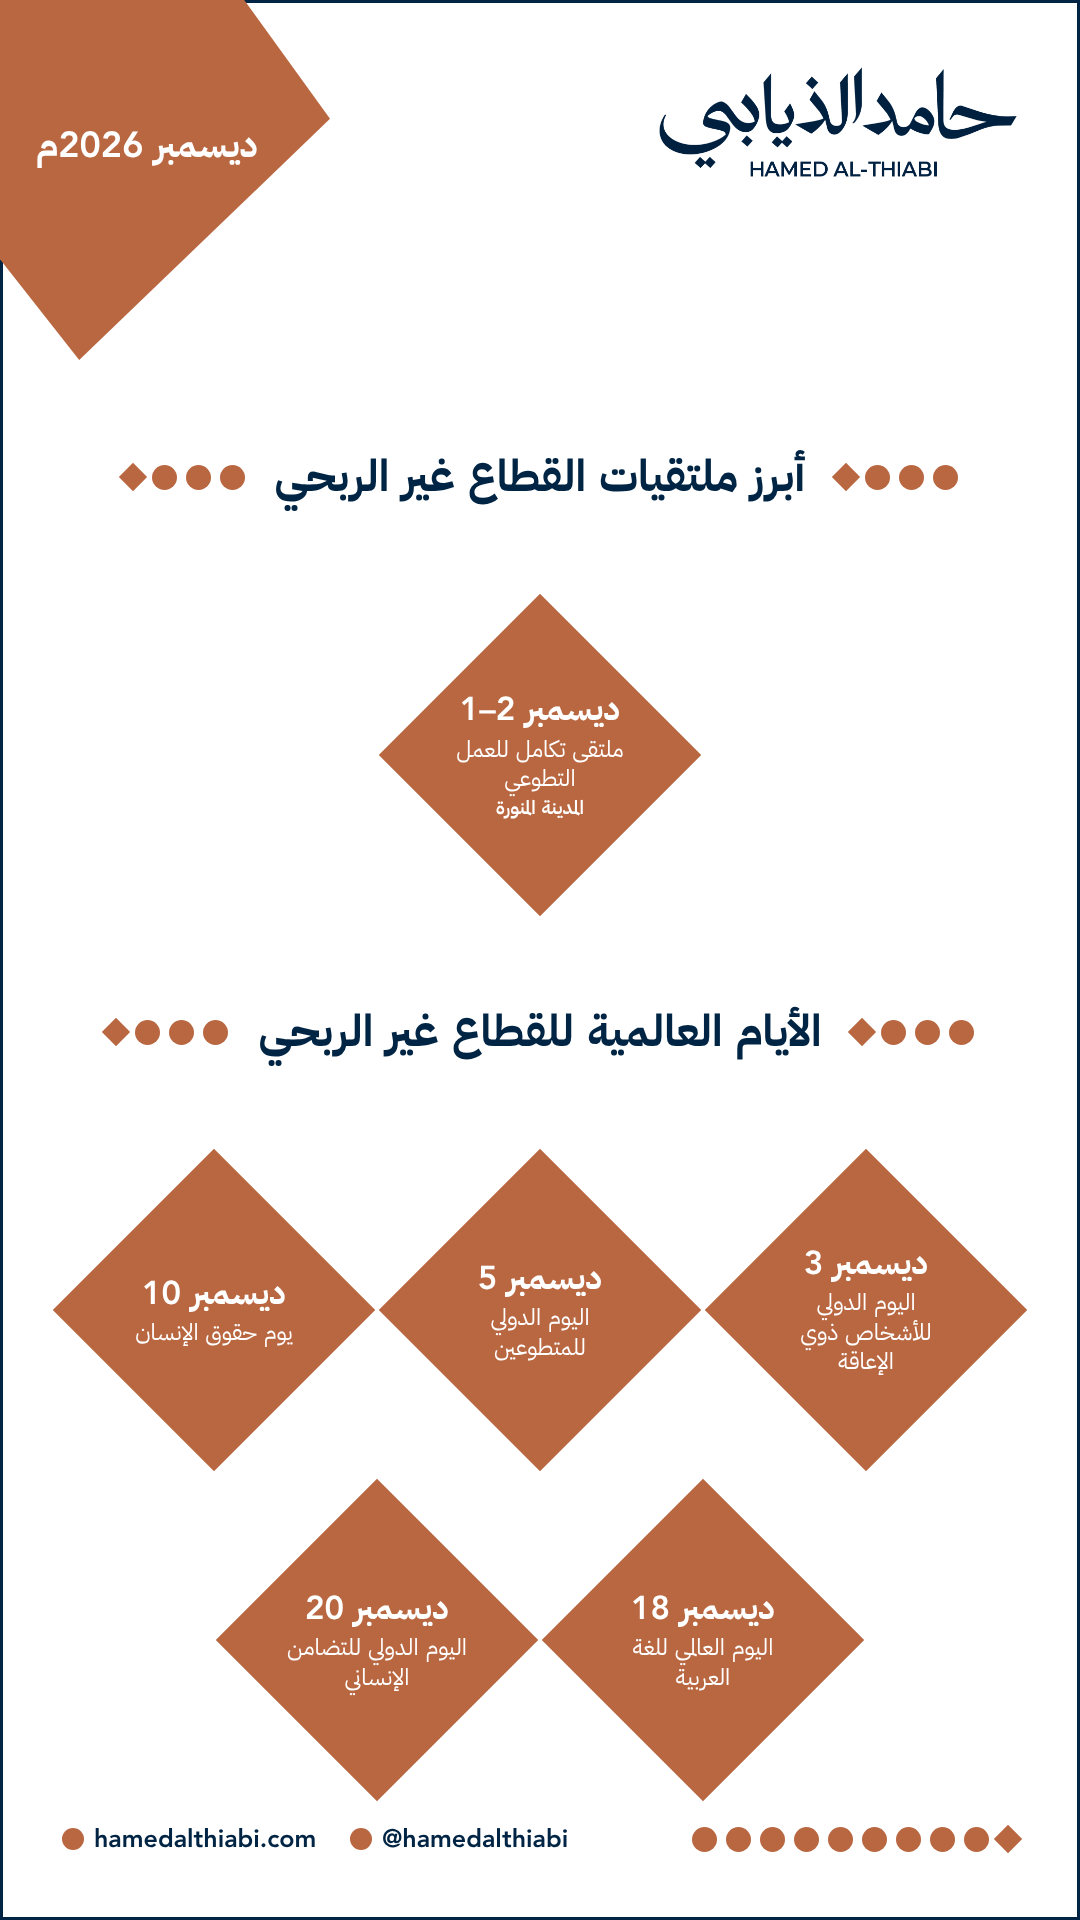
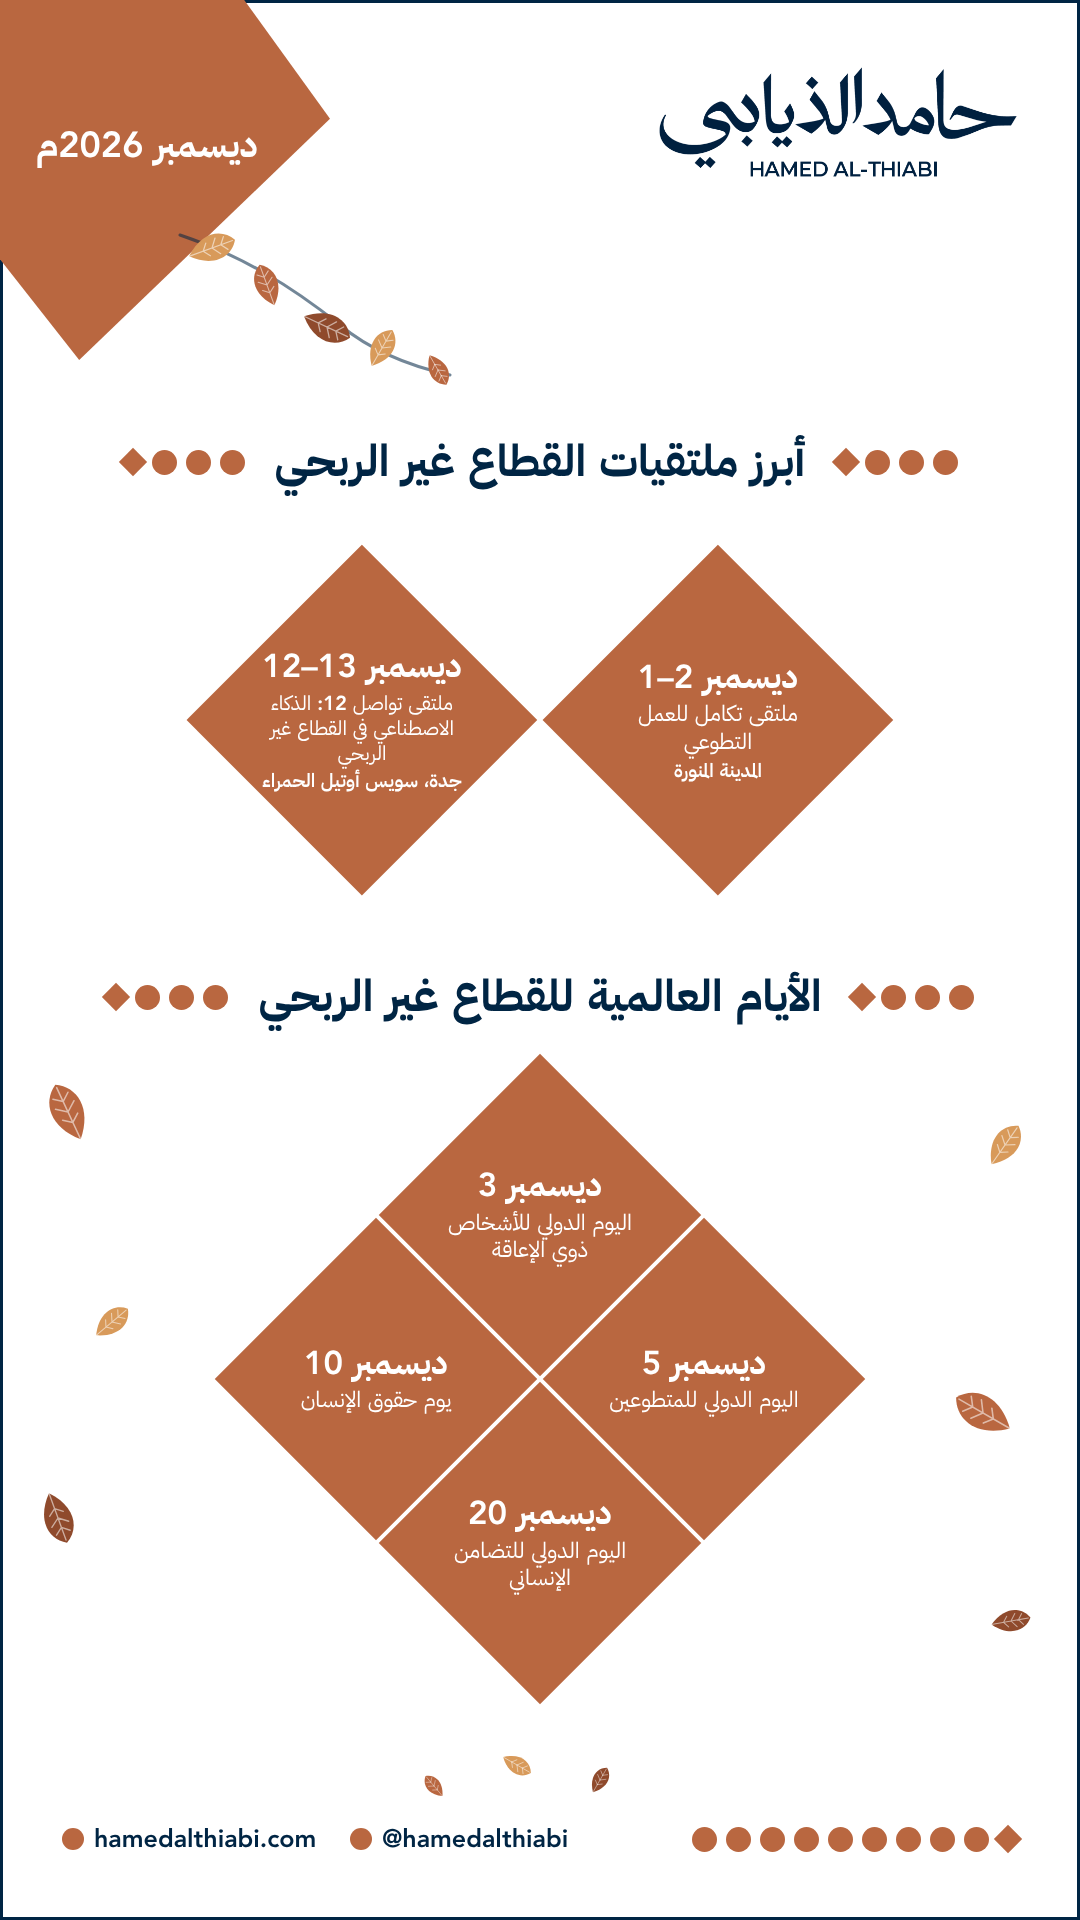
تقويم ديسمبر: ملتقى تواصل ١٢ ولمسة خريفية بطلب تغريد

diff --git a/agent/tools/month_calendar_tpl.py b/agent/tools/month_calendar_tpl.py
@@ -3,7 +3,8 @@
 # data.json: {"month_label": "ديسمبر 2026م",
 #   "events": [{"date": "ديسمبر 1–2", "name": "...", "place": "..."}],  (١–٣)
 #   "days":   [{"date": "ديسمبر 5", "name": "..."}]}                    (حتى ٦)
-# التاريخ بصيغة القالب: الشهر ثم الرقم. لا زخارف إضافية على القالب.
+# "touch": "autumn" لمسة خريفية (غصن وأوراق على الهامش)؛ ٤ أيام تُرتّب خلية معيّنات ١-٢-١.
+# التاريخ بصيغة القالب: الشهر ثم الرقم. 
 import json, sys, os, base64, re
 from playwright.sync_api import sync_playwright
 R = os.path.join(os.path.dirname(os.path.abspath(__file__)), '..', 'brand')
@@ -13,28 +14,62 @@ NAVY, COP = '#002544', '#b96740'
 DS = 322  # قطر المعيّن
 
 
+def leaf(x, y, s, rot, col, op=1):
+    return (f'<svg class="lf" style="left:{x}px;top:{y}px;width:{s}px;height:{s}px;transform:rotate({rot}deg);opacity:{op}" viewBox="0 0 100 100">'
+            f'<path d="M50 3 C80 20 86 60 50 97 C14 60 20 20 50 3Z" fill="{col}"/>'
+            f'<path d="M50 8 L50 97 M50 32 L63 22 M50 32 L37 22 M50 50 L66 38 M50 50 L34 38 M50 68 L63 58 M50 68 L37 58" stroke="#fff" stroke-opacity=".55" stroke-width="2.4" fill="none" stroke-linecap="round"/></svg>')
+
+
+def touches(kind):
+    # لمسة نوفمبر: غصن خريفي يتدلّى من مثلث الشهر، وأوراق تتساقط على الهامشين حتى التذييل
+    if kind != 'autumn': return ''
+    C1, C2, C3 = '#b96740', '#d89a5a', '#8f4a2c'
+    br = ('<svg class="lf" style="left:170px;top:225px;width:300px;height:200px" viewBox="0 0 300 200">'
+          '<path d="M10 10 C70 30 120 60 170 100 C200 125 235 140 280 150" stroke="#002544" stroke-width="3" fill="none" stroke-linecap="round" opacity=".55"/></svg>')
+    L = [(186, 222, 52, 70, C2), (244, 262, 46, -20, C1), (300, 300, 54, 115, C3), (360, 326, 44, 30, C2), (420, 352, 36, 150, C1),
+         (36, 1080, 64, -25, C1), (90, 1300, 44, 50, C2), (30, 1490, 56, 160, C3), (980, 1120, 50, 35, C2), (950, 1380, 66, -60, C1),
+         (990, 1600, 42, 80, C3), (500, 1748, 34, 120, C2), (420, 1772, 28, -40, C1), (585, 1765, 30, 30, C3)]
+    return br + ''.join(leaf(x, y, sz, r, c) for x, y, sz, r, c in L)
+
+
 def dots(n=4):
     return '<span class="dots">' + '<i class="ci"></i>' * (n - 1) + '<i class="dm"></i></span>'
 
 
-def diamond(it, x, y):
+def diamond(it, x, y, ds=None):
+    ds = ds or DS
     pl = f'<div class="pl">{it["place"]}</div>' if it.get('place') else ''
-    return (f'<div class="dw" style="left:{x - DS / 2}px;top:{y - DS / 2}px"><div class="d"></div>'
-            f'<div class="t"><b>{re.sub(r"([0-9][0-9–]*)", r"<span dir=ltr>\1</span>", it["date"])}</b><div class="nm">{it["name"]}</div>{pl}</div></div>')
+    return (f'<div class="dw" style="left:{x - ds / 2}px;top:{y - ds / 2}px;width:{ds}px;height:{ds}px"><div class="d"></div>'
+            f'<div class="t"><b>{re.sub(r"([0-9][0-9–]*)", r"<span dir=ltr>\1</span>", it["date"])}</b><div class="nm" style="font-size:{20 if len(it['name']) > 40 else 22}px">{it["name"]}</div>{pl}</div></div>')
 
 
-def row(items, y):
-    step = DS + 4; n = len(items); x0 = 540 + (n - 1) * step / 2
-    return ''.join(diamond(it, x0 - i * step, y) for i, it in enumerate(items))  # من اليمين
+def row(items, y, ds=None):
+    ds = ds or DS; step = ds + 6; n = len(items); x0 = 540 + (n - 1) * step / 2
+    return ''.join(diamond(it, x0 - i * step, y, ds) for i, it in enumerate(items))  # من اليمين
+
+
+def cluster(items, y0):
+    # معيّنات متداخلة كخلية: ١ ثم ٢ ثم ١ (أو ١ ثم ٢ ثم ٢…)، من اليمين
+    h = DS / 2 + 3; out = ''; y = y0; i = 0; pattern = [1, 2] * 4
+    for k in pattern:
+        if i >= len(items): break
+        grp = items[i:i + k]; i += k
+        xs = [540] if len(grp) == 1 else [540 + h, 540 - h]
+        out += ''.join(diamond(it, x, y) for it, x in zip(grp, xs)); y += h
+    return out, y - h
 
 
 def html(d):
     ev, days = d.get('events', []), d.get('days', [])
-    body = f'<h2 style="top:455px">{dots()}<span>أبرز ملتقيات القطاع غير الربحي</span>{dots()}</h2>'
-    body += row(ev, 755)
-    body += f'<h2 style="top:1010px">{dots()}<span>الأيام العالمية للقطاع غير الربحي</span>{dots()}</h2>'
-    for k in range(0, len(days), 3):
-        body += row(days[k:k + 3], 1310 + (k // 3) * 330)
+    body = f'<h2 style="top:440px">{dots()}<span>أبرز ملتقيات القطاع غير الربحي</span>{dots()}</h2>'
+    body += row(ev, 720, 350 if len(ev) <= 2 else DS)
+    body += f'<h2 style="top:975px">{dots()}<span>الأيام العالمية للقطاع غير الربحي</span>{dots()}</h2>'
+    if len(days) == 4:
+        c, _ = cluster(days, 1215); body += c
+    else:
+        for k in range(0, len(days), 3):
+            body += row(days[k:k + 3], 1240 + (k // 3) * 330)
+    body += touches(d.get('touch'))
     f = lambda w, fn: f"@font-face{{font-family:P;font-weight:{w};src:url(data:font/ttf;base64,{b64(os.path.join(KIT, fn))})}}"
     return f'''<!doctype html><html dir="rtl"><head><meta charset="utf-8"><style>
 @font-face{{font-family:L;unicode-range:U+0020-007F,U+2013;src:url(data:font/ttf;base64,{b64(os.path.join(KIT, 'avenir-800.ttf'))})}}
@@ -50,11 +85,11 @@ body{{width:1080px;height:1920px;background:#fff;font-family:L,P;color:{NAVY};po
 h2{{position:absolute;left:0;right:0;display:flex;align-items:center;justify-content:center;gap:30px;font-weight:700;font-size:44px;line-height:1}}
 .dots{{display:inline-flex;align-items:center;gap:9px}} .dots i{{display:block;background:{COP}}}
 .dm{{width:20px;height:20px;transform:rotate(45deg)}} .ci{{width:25px;height:25px;border-radius:50%}}
-.dw{{position:absolute;width:{DS}px;height:{DS}px;display:flex;align-items:center;justify-content:center}}
+.lf{{position:absolute}}\n.dw{{position:absolute;display:flex;align-items:center;justify-content:center}}
 .d{{position:absolute;inset:14.6%;background:{COP};transform:rotate(45deg)}}
-.t{{position:relative;text-align:center;width:58%;line-height:1.28;color:#fff}}
+.t{{position:relative;text-align:center;width:60%;line-height:1.26;color:#fff}}
 .t b{{display:block;font-size:33px;font-weight:700;margin-bottom:3px}}
-.nm{{font-size:23px;font-weight:400}} .pl{{font-size:19px;margin-top:3px;font-weight:600}}
+.nm{{font-size:22px;font-weight:400}} .pl{{font-size:19px;margin-top:3px;font-weight:600}}
 .foot{{position:absolute;bottom:64px;left:62px;right:62px;display:flex;justify-content:space-between;align-items:center;font-size:25px;font-weight:600;direction:ltr}}
 .foot .c{{display:flex;gap:34px}} .foot .c span{{display:flex;align-items:center;gap:10px}}
 .foot .c i{{width:22px;height:22px;border-radius:50%;background:{COP};display:block}}
